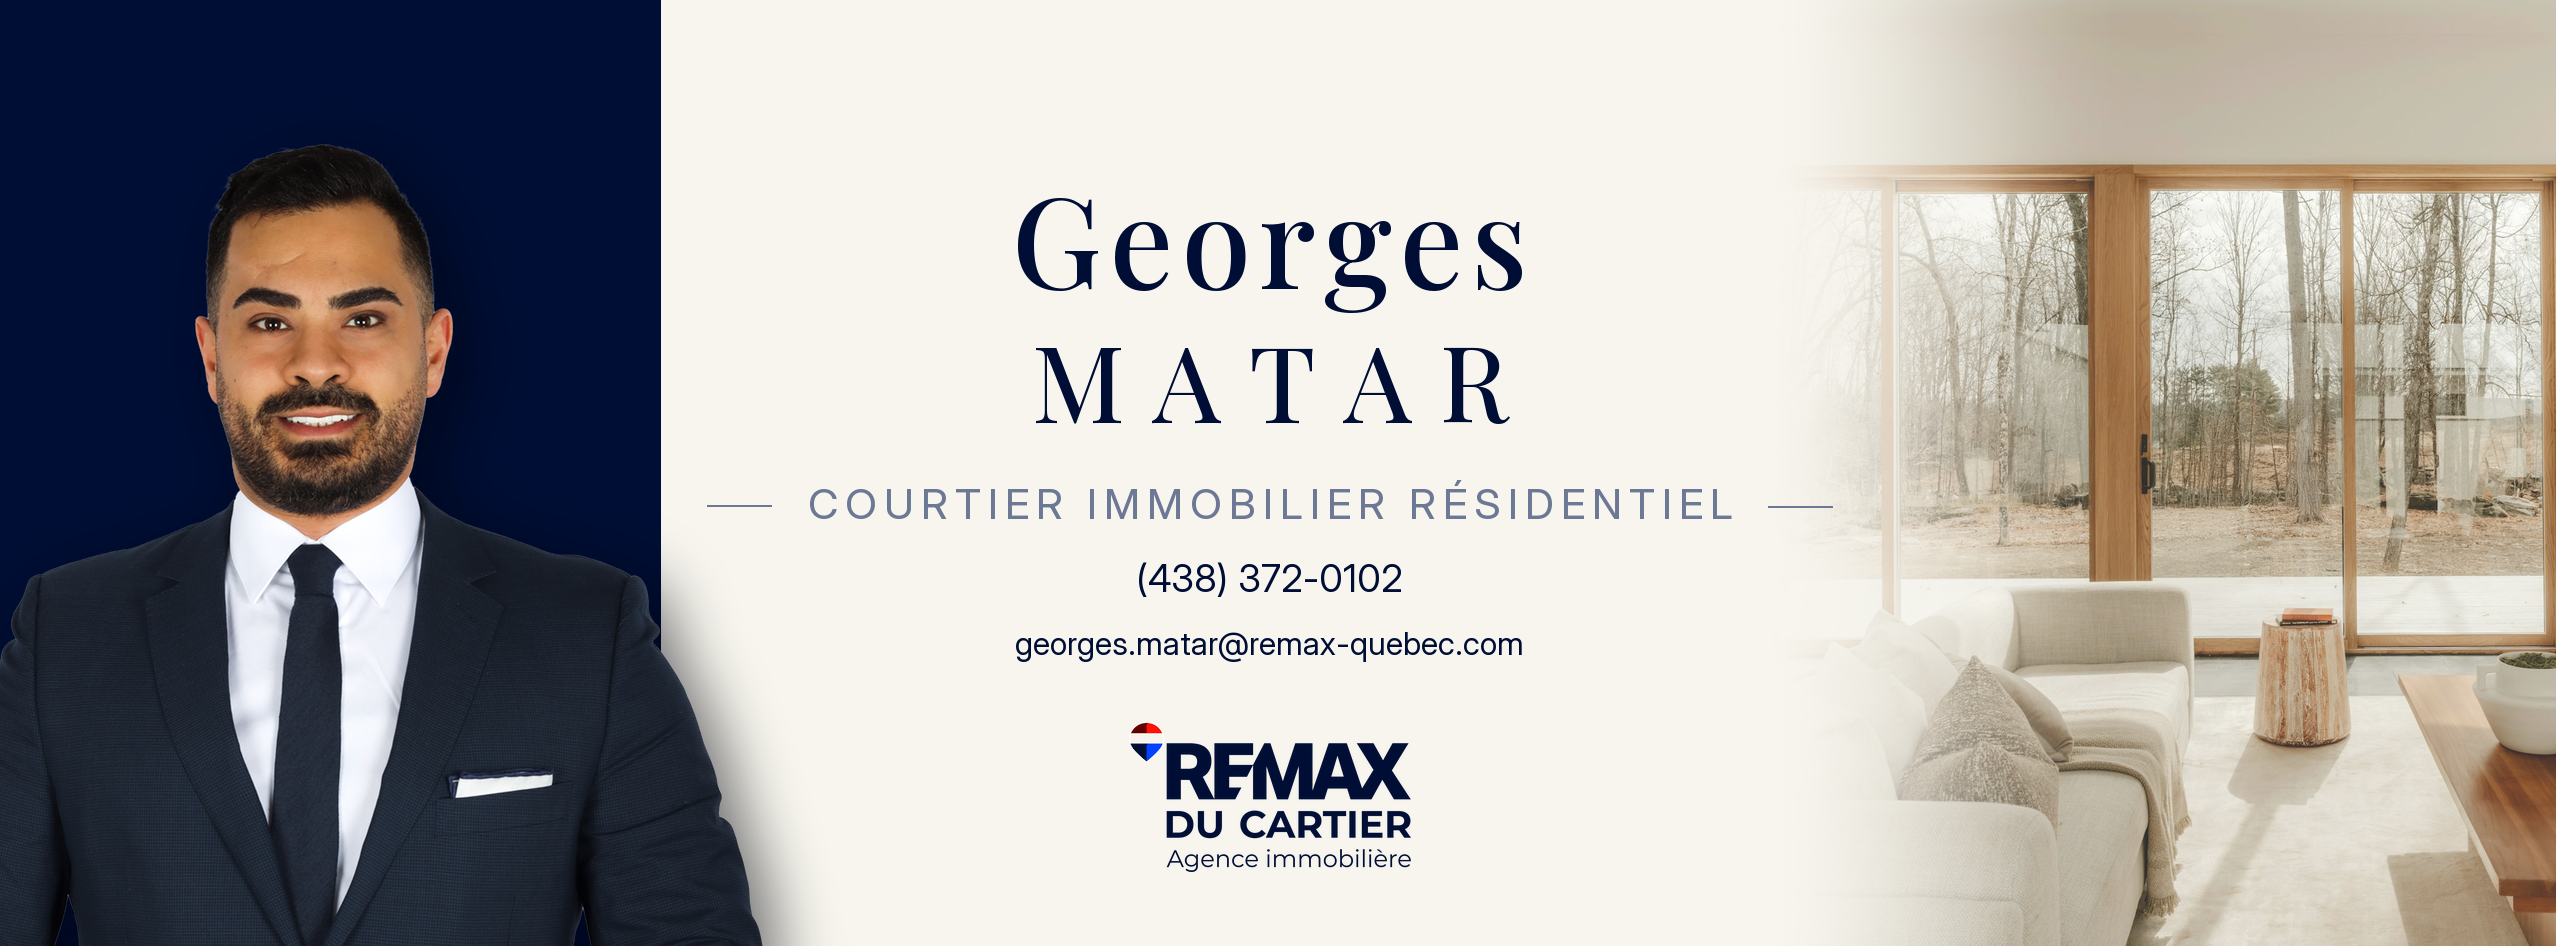
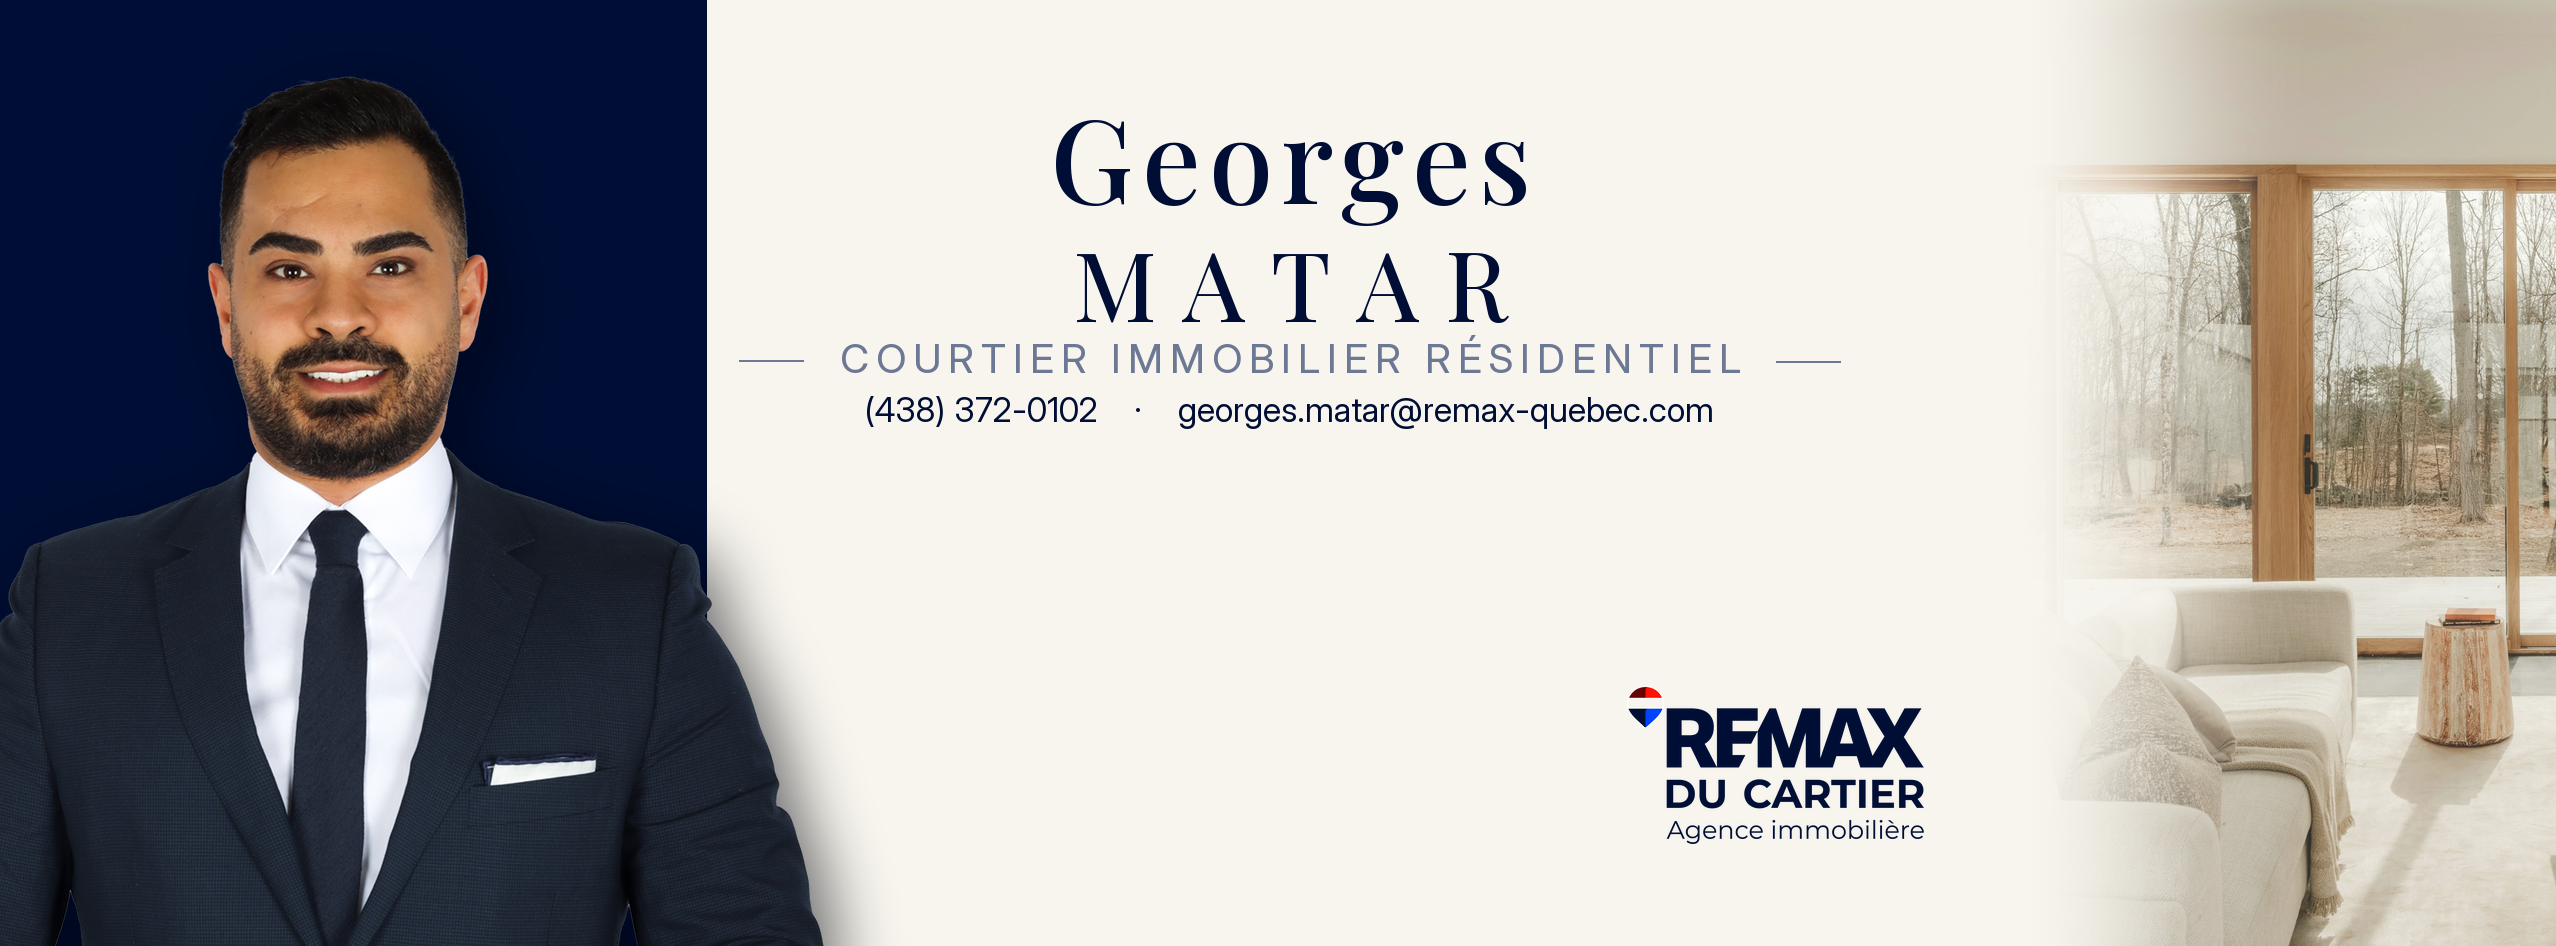
facebook: couverture recomposee pour le rognage mobile
Mesure prise sur une capture reelle de l application: sur telephone
Facebook met l image a la hauteur de la bande et ne garde que la
tranche x 555 a 2025 sur 2556, et la photo de profil pose un disque
de rayon 329 centre en (1287, 791). Le logo, le telephone et le
courriel se trouvaient dessous, donc invisibles.

Le bloc de texte tient maintenant au dessus de y = 455, telephone et
courriel sur une seule ligne, et le logo passe a droite du disque.
apercu_mobile() rejoue ce rognage et sort apercu-mobile.jpg a chaque
generation, pour verifier avant de televerser.

diff --git a/facebook/generer-couverture-arche.py b/facebook/generer-couverture-arche.py
@@ -1,25 +1,34 @@
 # -*- coding: utf-8 -*-
-"""Photo de couverture Facebook, mise en page arche.
+"""Photo de couverture Facebook, bandeau navy et colonne de texte.
 
 Sortie 2556 x 946 px, soit trois fois le format d affichage Facebook
 (852 x 315). Le triple garde le texte net sur les ecrans Retina.
 
 Composition, de gauche a droite:
-  - bandeau navy a fond perdu, une arche tracee a l interieur,
-    le portrait detoure devant, qui deborde sur le creme
-  - colonne de texte centree: prenom calligraphie, nom en lettres
-    espacees, titre, coordonnees, logo de l agence
+  - bandeau navy a fond perdu, le portrait detoure devant,
+    qui deborde sur le creme
+  - colonne de texte: nom sur deux lignes, titre, coordonnees
   - photo d interieur a droite, fondue dans le creme par un degrade
+  - logo de l agence en bas a droite
 
-Zones a respecter:
-  - la photo de profil Facebook se pose en bas a gauche, elle couvre
-    environ x < 600 et y > 540: rien d important dessous
-  - le telephone recadre les cotes: le bloc de texte reste entre
-    x = 700 et x = 1900
+Zones mortes, mesurees sur une capture reelle de l application:
+
+  Mobile. Facebook met l image a la hauteur de la bande et rogne les
+  cotes: seule la tranche x 555 a 2025 reste visible, 57 pour cent de
+  la largeur. La photo de profil pose un disque de rayon 329 centre en
+  (1287, 791), donc tout le bas du centre disparait. Le texte vit en
+  consequence au dessus de y = 455, et le logo passe a droite du
+  disque, apres x = 1650.
+
+  Bureau. La photo de profil se pose en bas a gauche, elle couvre
+  environ x 50 a 580 et y > 616, c est a dire le bas du bandeau navy.
+
+La fonction apercu_mobile() redessine ces deux contraintes par dessus
+l image, pour verifier d un coup d oeil apres chaque retouche.
 
 Couleurs: charte RE/MAX DU CARTIER uniquement (voir CHARTE-COULEURS.md).
-Le filet dore du modele de depart est remplace par un creme et un navy
-dilue, l or ne figure pas dans la charte.
+Le dore du modele de depart est remplace par du navy dilue, l or ne
+figure pas dans la charte.
 """
 import os
 from PIL import Image, ImageDraw, ImageFont, ImageFilter
@@ -43,14 +52,14 @@ TITRE = "COURTIER IMMOBILIER RÉSIDENTIEL"
 TEL = "(438) 372-0102"
 COURRIEL = "georges.matar@remax-quebec.com"
 
-CX = 1270                                    # axe de la colonne de texte
+CX = 1290                                    # axe de la colonne de texte
+
+MOBILE = (555, 2025)                         # tranche visible sur telephone
+DISQUE = (1287, 791, 329)                    # photo de profil, mobile
+PLANCHER = 455                               # rien d essentiel plus bas au centre
 
 
 # ---------------------------------------------------------------- polices
-def allura(size):
-    return ImageFont.truetype(os.path.join(FONTS, "Allura.ttf"), size)
-
-
 def playfair(size, weight=500):
     f = ImageFont.truetype(os.path.join(FONTS, "Playfair.ttf"), size)
     f.set_variation_by_axes([weight])
@@ -72,8 +81,7 @@ def centre(draw, y, s, font, fill, track=0, cx=CX, anchor="mt"):
     """Ecrit la chaine centree sur cx, interlettrage optionnel.
 
     y est lu selon anchor: mt pour le haut de la boite, ms pour la
-    ligne de base, ce qui est le seul reglage fiable quand les
-    jambages d une calligraphie debordent.
+    ligne de base.
     """
     if not track:
         draw.text((cx, y), s, font=font, fill=fill, anchor=anchor)
@@ -89,7 +97,7 @@ def centre(draw, y, s, font, fill, track=0, cx=CX, anchor="mt"):
 
 
 # ---------------------------------------------------------------- bandeau
-BANDE = 660                                  # largeur du bandeau navy
+BANDE = 706                                  # largeur du bandeau navy
 
 
 def bandeau(canvas):
@@ -102,10 +110,10 @@ def bandeau(canvas):
 def portrait(canvas):
     im = Image.open(os.path.join(ASSETS, "georges-matar-3.png")).convert("RGBA")
     im = im.crop(im.getchannel("A").getbbox())
-    h = 806
+    h = 874
     w = int(im.width * h / im.height)
     im = im.resize((w, h), Image.LANCZOS)
-    x0, y0 = 326 - w // 2, H - h
+    x0, y0 = 350 - w // 2, H - h
 
     sh = Image.new("RGBA", (W, H), (0, 0, 0, 0))
     sh.paste((0, 4, 18, 150), (x0 + 18, y0 + 16), im)
@@ -116,7 +124,7 @@ def portrait(canvas):
 # ---------------------------------------------------------------- interieur
 def interieur(canvas):
     """Photo d interieur a droite, fondue dans le creme vers la gauche."""
-    x0 = 1760
+    x0 = 2010
     pw, ph = W - x0, H
     im = Image.open(os.path.join(SOURCES, "interieur-salon.jpg")).convert("RGB")
     e = max(pw / im.width, ph / im.height)
@@ -125,12 +133,11 @@ def interieur(canvas):
     im = im.crop((gx, (im.height - ph) // 2, gx + pw, (im.height - ph) // 2 + ph))
 
     # voile creme, pour que la photo reste en retrait du texte
-    voile = Image.new("RGBA", (pw, ph), CREME + (46,))
     im = im.convert("RGBA")
-    im.alpha_composite(voile)
+    im.alpha_composite(Image.new("RGBA", (pw, ph), CREME + (46,)))
 
     # degrade d entree: invisible a gauche, pleine opacite a droite
-    fondu = 360
+    fondu = 300
     m = Image.new("L", (pw, 1), 255)
     mp = m.load()
     for x in range(fondu):
@@ -142,7 +149,7 @@ def interieur(canvas):
 
 
 # ---------------------------------------------------------------- logo
-def logo(canvas, hauteur, y):
+def logo(canvas, hauteur, xy):
     im = Image.open(os.path.join(LOGOS, "logo-ducartier-noir2.png")).convert("RGBA")
     im = im.crop(im.getchannel("A").getbbox())
     w = int(im.width * hauteur / im.height)
@@ -155,7 +162,7 @@ def logo(canvas, hauteur, y):
             r, g, b, a = px[i, j]
             if a and max(r, g, b) < 110 and max(r, g, b) - min(r, g, b) < 42:
                 px[i, j] = NAVY + (a,)
-    canvas.alpha_composite(im, (CX - w // 2, y))
+    canvas.alpha_composite(im, (int(xy[0] - w / 2), int(xy[1])))
 
 
 # ---------------------------------------------------------------- montage
@@ -166,24 +173,40 @@ def couverture():
     portrait(c)
     d = ImageDraw.Draw(c)
 
-    centre(d, 152, NOM, playfair(126, 500), NAVY + (255,), track=8)
-    centre(d, 308, PRENOM_NOM, playfair(106, 450), NAVY + (255,), track=28)
+    centre(d, 78, NOM, playfair(116, 500), NAVY + (255,), track=8)
+    centre(d, 218, PRENOM_NOM, playfair(96, 450), NAVY + (255,), track=26)
 
     # filets de part et d autre du titre
-    ft = inter(42, 450)
-    y = 478
+    ft = inter(40, 450)
+    y = 334
     lt = largeur(d, TITRE, ft, 7)
     centre(d, y, TITRE, ft, NAVY_DOUX + (255,), track=7)
     for s in (-1, 1):
         x = CX + s * (lt / 2 + 36)
-        d.line([(x, y + 28), (x + s * 64, y + 28)], fill=NAVY_DOUX + (150,),
+        d.line([(x, y + 27), (x + s * 64, y + 27)], fill=NAVY_DOUX + (150,),
                width=2)
 
-    centre(d, 562, TEL, inter(38, 400), NAVY + (255,))
-    centre(d, 632, COURRIEL, inter(32, 400), NAVY + (235,))
+    # telephone et courriel sur une seule ligne, pour tenir au dessus
+    # du disque de la photo de profil
+    fc = inter(34, 400)
+    ligne = TEL + "    ·    " + COURRIEL
+    centre(d, 396, ligne, fc, NAVY + (245,))
 
-    logo(c, 150, 722)
+    # logo a droite du disque, seul endroit du bas visible sur telephone
+    logo(c, 158, (1776, 686))
     return c
+
+
+def apercu_mobile(im, chemin):
+    """Rejoue le rognage de Facebook sur telephone, zones mortes en rouge."""
+    x0, x1 = MOBILE
+    vue = im.convert("RGBA").crop((x0, 0, x1, H))
+    cx, cy, r = DISQUE
+    masque = Image.new("RGBA", vue.size, (0, 0, 0, 0))
+    ImageDraw.Draw(masque).ellipse([cx - r - x0, cy - r, cx + r - x0, cy + r],
+                                   fill=(255, 18, 0, 150))
+    vue.alpha_composite(masque)
+    vue.convert("RGB").save(chemin, quality=92)
 
 
 if __name__ == "__main__":
@@ -192,6 +215,7 @@ if __name__ == "__main__":
     jpg = os.path.join(HERE, "couverture-facebook-arche.jpg")
     im.convert("RGB").save(png, optimize=True)
     im.convert("RGB").save(jpg, quality=94, subsampling=0, optimize=True)
+    apercu_mobile(im, os.path.join(HERE, "apercu-mobile.jpg"))
     for p in (png, jpg):
         print("  ", os.path.basename(p), f"{os.path.getsize(p)/1024:.0f} Ko")
     print("OK", W, "x", H)
